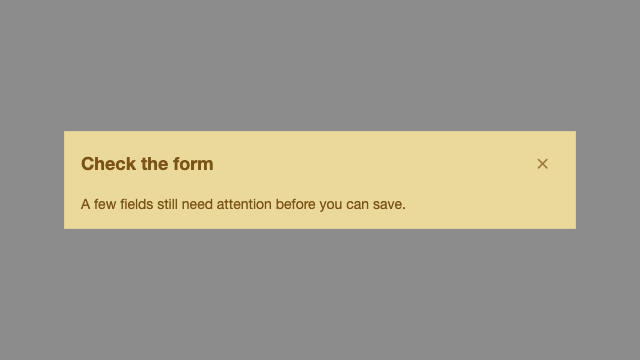
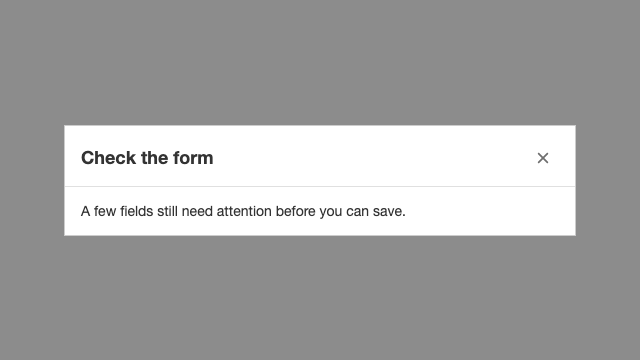
feat(modal)!: remove variant prop

Changed region(s): [[0.0938, 0.3361, 0.9062, 0.6722]]

diff --git a/src/components/Modal/Modal.css b/src/components/Modal/Modal.css
@@ -43,7 +43,7 @@
   pointer-events: auto;
   width: 100%;
 
-  &.fikasio-theme-dark.fikasio-modal-default {
+  &.fikasio-theme-dark {
     background-color: var(--fikasio-black-lighter);
     border-color: var(--fikasio-dark-gray-lighter);
     color: var(--fikasio-white);
@@ -64,19 +64,15 @@
 
 .fikasio-modal-header {
   align-items: center;
+  border-bottom: var(--fikasio-border-width-thin) solid var(--fikasio-color-border);
   display: flex;
   gap: 1rem;
   justify-content: space-between;
-  padding: 1rem 1rem 0;
+  padding: 1rem 1rem 0.75rem;
 }
 
-.fikasio-modal-default .fikasio-modal-header {
-  border-bottom: var(--fikasio-border-width-thin) solid var(--fikasio-color-border);
-  padding-bottom: 0.75rem;
-}
-
-.fikasio-modal-content.fikasio-theme-dark.fikasio-modal-default .fikasio-modal-header,
-.fikasio-modal-content.fikasio-theme-dark.fikasio-modal-default .fikasio-modal-footer {
+.fikasio-modal-content.fikasio-theme-dark .fikasio-modal-header,
+.fikasio-modal-content.fikasio-theme-dark .fikasio-modal-footer {
   border-color: var(--fikasio-dark-gray-lighter);
 }
 
@@ -124,67 +120,10 @@
 }
 
 .fikasio-modal-footer {
+  border-top: var(--fikasio-border-width-thin) solid var(--fikasio-color-border);
   display: flex;
   flex-shrink: 0;
   gap: 0.5rem;
   justify-content: flex-end;
-  padding: 0 1rem 1rem;
-}
-
-.fikasio-modal-default .fikasio-modal-footer {
-  border-top: var(--fikasio-border-width-thin) solid var(--fikasio-color-border);
-  padding-top: 0.75rem;
-}
-
-.fikasio-modal-content:not(.fikasio-modal-default) a {
-  color: inherit;
-  font-weight: var(--fikasio-font-weight-semibold);
-}
-
-.fikasio-modal-primary {
-  background-color: #d3e7ff;
-  border-color: #a8d0ff;
-  color: #08478f;
-}
-
-.fikasio-modal-secondary {
-  background-color: #e8e8e8;
-  border-color: #d2d2d2;
-  color: #333333;
-}
-
-.fikasio-modal-success {
-  background-color: rgb(177, 233, 164);
-  border-color: rgb(138, 212, 122);
-  color: rgb(35, 87, 17);
-}
-
-.fikasio-modal-danger {
-  background-color: rgb(251, 153, 142);
-  border-color: rgb(251, 126, 112);
-  color: rgb(120, 20, 20);
-}
-
-.fikasio-modal-warning {
-  background-color: rgb(235, 217, 155);
-  border-color: rgb(223, 207, 148);
-  color: rgb(122, 83, 22);
-}
-
-.fikasio-modal-info {
-  background-color: #d2f4f4;
-  border-color: #a5e4e4;
-  color: #0d5c5c;
-}
-
-.fikasio-modal-light {
-  background-color: #f7f7f7;
-  border-color: #e0e0e0;
-  color: #333333;
-}
-
-.fikasio-modal-dark {
-  background-color: #333333;
-  border-color: #222222;
-  color: #ffffff;
+  padding: 0.75rem 1rem 1rem;
 }

diff --git a/src/Modal.test.tsx b/src/Modal.test.tsx
@@ -1,7 +1,12 @@
 import React from 'react';
 import { describe, it, expect, jest } from '@jest/globals';
 import { fireEvent, render, screen } from '@testing-library/react';
-import { Button, Modal } from '.';
+import { Button, Modal, useTheme } from '.';
+
+function ThemeProbe({ theme }: { theme: string }) {
+  useTheme(theme);
+  return null;
+}
 
 describe('Modal', () => {
   it('Renders nothing while closed', () => {
@@ -21,7 +26,6 @@ describe('Modal', () => {
         footer={<Button.Action type="button">Save</Button.Action>}
         isOpen
         title="Check the form"
-        variant="warning"
       >
         A few fields still need attention.
       </Modal>,
@@ -109,21 +113,20 @@ describe('Modal', () => {
     expect(onClose).not.toHaveBeenCalled();
   });
 
-  it('Uses the alert variant and size', () => {
+  it('Uses the given size and class name', () => {
     render(
       <Modal
         className="extra"
         isOpen
         size="lg"
         title="Done"
-        variant="success"
       >
         Saved
       </Modal>,
     );
 
     const dialog = screen.getByRole('dialog', { name: 'Done' });
-    expect(dialog.classList.contains('fikasio-modal-success')).toBe(true);
+    expect(dialog.classList.contains('fikasio-modal-content')).toBe(true);
     expect(dialog.classList.contains('extra')).toBe(true);
     expect(document.querySelector('.fikasio-modal-lg')).toBeTruthy();
   });
@@ -161,5 +164,25 @@ describe('Modal', () => {
 
     fireEvent.keyDown(document, { key: 'Tab', shiftKey: true });
     expect(document.activeElement).toBe(save);
+  });
+
+  it('Uses a dark panel in the dark theme', () => {
+    const { unmount } = render(<ThemeProbe theme="dark" />);
+    unmount();
+
+    try {
+      render(
+        <Modal
+          isOpen
+          title="Notice"
+        >
+          Saved
+        </Modal>,
+      );
+
+      expect(screen.getByRole('dialog').classList.contains('fikasio-theme-dark')).toBe(true);
+    } finally {
+      render(<ThemeProbe theme="light" />);
+    }
   });
 });

diff --git a/src/components/Modal/Modal.tsx b/src/components/Modal/Modal.tsx
@@ -7,16 +7,6 @@ import useTheme from '../../hooks/useTheme';
 import convertClassNameToObj from '../../utils/convertClassNameToObj';
 import './Modal.css';
 
-export type ModalVariant =
-  | 'danger'
-  | 'dark'
-  | 'info'
-  | 'light'
-  | 'primary'
-  | 'secondary'
-  | 'success'
-  | 'warning';
-
 export type ModalSize = 'sm' | 'lg' | 'xl';
 
 export interface ModalProps {
@@ -31,7 +21,6 @@ export interface ModalProps {
   staticBackdrop?: boolean;
   style?: React.CSSProperties;
   title?: React.ReactNode;
-  variant?: ModalVariant;
 }
 
 const FOCUSABLE = [
@@ -55,7 +44,6 @@ export function Modal({
   staticBackdrop = false,
   style = {},
   title,
-  variant,
 }: ModalProps) {
   const theme = useTheme();
   const titleId = useId();
@@ -167,8 +155,6 @@ export function Modal({
           aria-modal="true"
           className={classNames({
             'fikasio-modal-content': true,
-            'fikasio-modal-default': !variant,
-            [`fikasio-modal-${variant}`]: Boolean(variant),
             'fikasio-theme-dark': theme === 'dark',
             'fikasio-theme-light': theme === 'light',
             ...convertClassNameToObj(className),

diff --git a/src/stories/Modal.stories.tsx b/src/stories/Modal.stories.tsx
@@ -18,19 +18,6 @@ const meta = {
     staticBackdrop: { control: 'boolean' },
     style: { control: 'object' },
     title: { control: 'text' },
-    variant: {
-      control: 'select',
-      options: [
-        'primary',
-        'secondary',
-        'success',
-        'danger',
-        'warning',
-        'info',
-        'light',
-        'dark',
-      ],
-    },
   },
 } satisfies Meta<typeof Modal>;
 
@@ -46,21 +33,11 @@ export const ModalDialog: Story = {
   },
 };
 
-export const ModalWarning: Story = {
-  args: {
-    children: 'A few fields still need attention before you can save.',
-    isOpen: true,
-    title: 'Check the form',
-    variant: 'warning',
-  },
-};
-
 export const ModalWithTrigger: Story = {
   args: {
     children: 'A few fields still need attention before you can save.',
     isOpen: false,
     title: 'Check the form',
-    variant: 'warning',
   },
   render: function ModalWithTriggerStory(args) {
     const [isOpen, setIsOpen] = useState(false);

diff --git a/tests/docs-screenshots.test.tsx b/tests/docs-screenshots.test.tsx
@@ -221,7 +221,6 @@ test.describe('README screenshots', () => {
       <Modal
         isOpen
         title="Check the form"
-        variant="warning"
       >
         A few fields still need attention before you can save.
       </Modal>,

diff --git a/tests/Modal.visual.test.tsx b/tests/Modal.visual.test.tsx
@@ -9,7 +9,6 @@ test.describe('Modal', () => {
       <Modal
         isOpen
         title="Check the form"
-        variant="warning"
       >
         A few fields still need attention before you can save.
       </Modal>,

diff --git a/README.md b/README.md
@@ -261,7 +261,7 @@ Shows a loading image. It takes no props.
 
 <img src="docs/screenshots/modal.png" alt="Modal" width="640" />
 
-A dialog over the page. `variant` uses the same colors as Bootstrap's alerts (`primary`, `secondary`, `success`, `danger`, `warning`, `info`, `light`, and `dark`). Success, danger, and warning match the Success, Error, and Warning components. Without a variant, the dialog is a plain panel with a header and footer.
+A white dialog over the page, with a header and footer. In the dark theme the dialog is dark.
 
 The close button, the Escape key, and a click on the backdrop each call `onClose`. Set `dismissible` to false to leave closing to the parent. Set `staticBackdrop` to ignore backdrop clicks while Escape and the close button still work.
 
@@ -280,7 +280,6 @@ The close button, the Escape key, and a click on the backdrop each call `onClose
 | staticBackdrop          | boolean         | No              | Keep the dialog open when the backdrop is clicked |
 | style                   | CSSProperties   | No              | Additional CSS styles for the dialog            |
 | title                   | ReactNode       | No              | Heading and accessible name                     |
-| variant                 | `'primary'` \| `'secondary'` \| `'success'` \| `'danger'` \| `'warning'` \| `'info'` \| `'light'` \| `'dark'` | No | Color variant. Defaults to `primary` |
 
 ### OtpInput
 
@@ -491,6 +490,49 @@ The current theme: `'light'` or `'dark'`.
 
 
 ## Upgrade notes
+
+### v4 to v5
+
+- `Modal` no longer accepts `variant`. The dialog is white, and dark in the dark theme.
+
+#### `Modal` no longer accepts `variant`. The dialog is white, and dark in the dark theme.
+
+v4:
+
+```
+import { Modal } from '@fikasio/react-ui-components';
+
+function Notice({ isOpen, onClose }) {
+  return (
+    <Modal
+      isOpen={isOpen}
+      onClose={onClose}
+      title="Check the form"
+      variant="warning"
+    >
+      A few fields still need attention.
+    </Modal>
+  );
+}
+```
+
+v5:
+
+```
+import { Modal } from '@fikasio/react-ui-components';
+
+function Notice({ isOpen, onClose }) {
+  return (
+    <Modal
+      isOpen={isOpen}
+      onClose={onClose}
+      title="Check the form"
+    >
+      A few fields still need attention.
+    </Modal>
+  );
+}
+```
 
 ### v3 to v4
 
